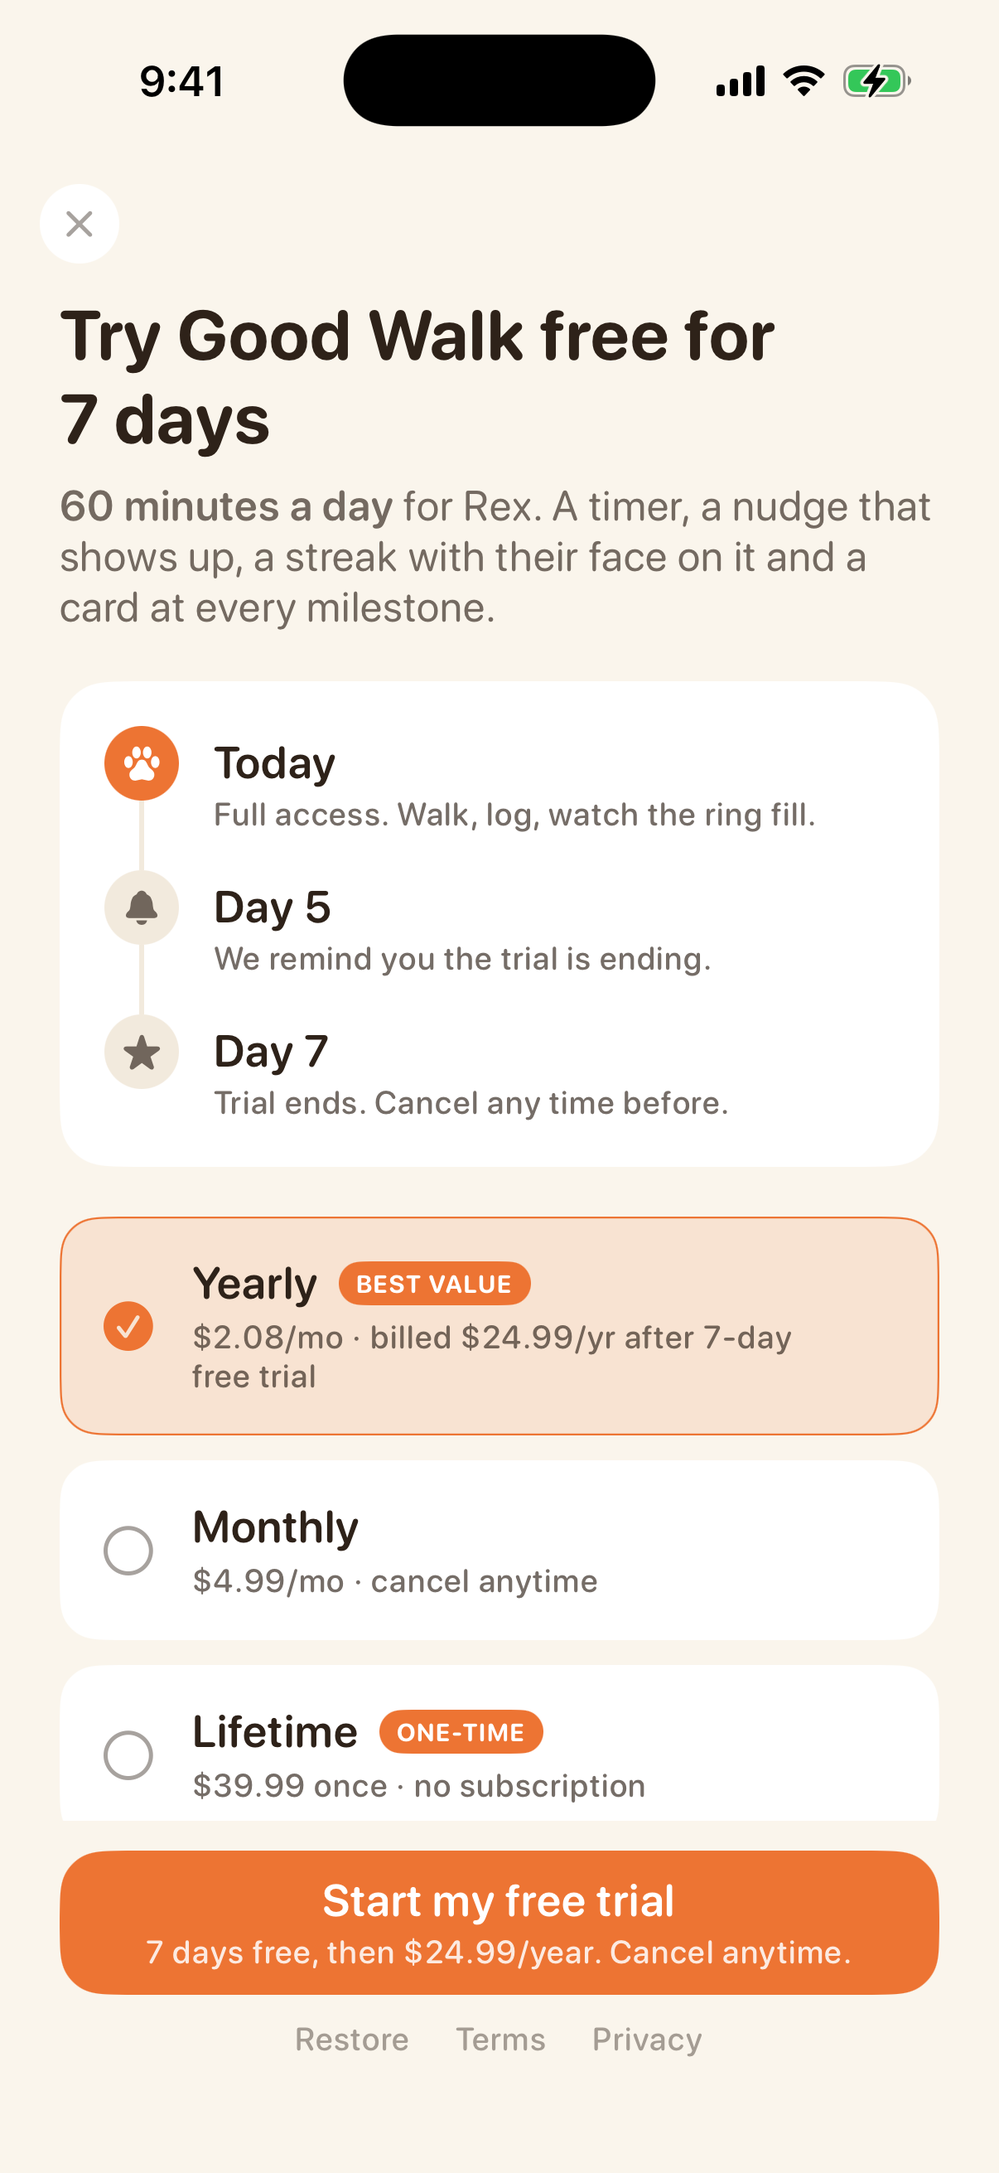
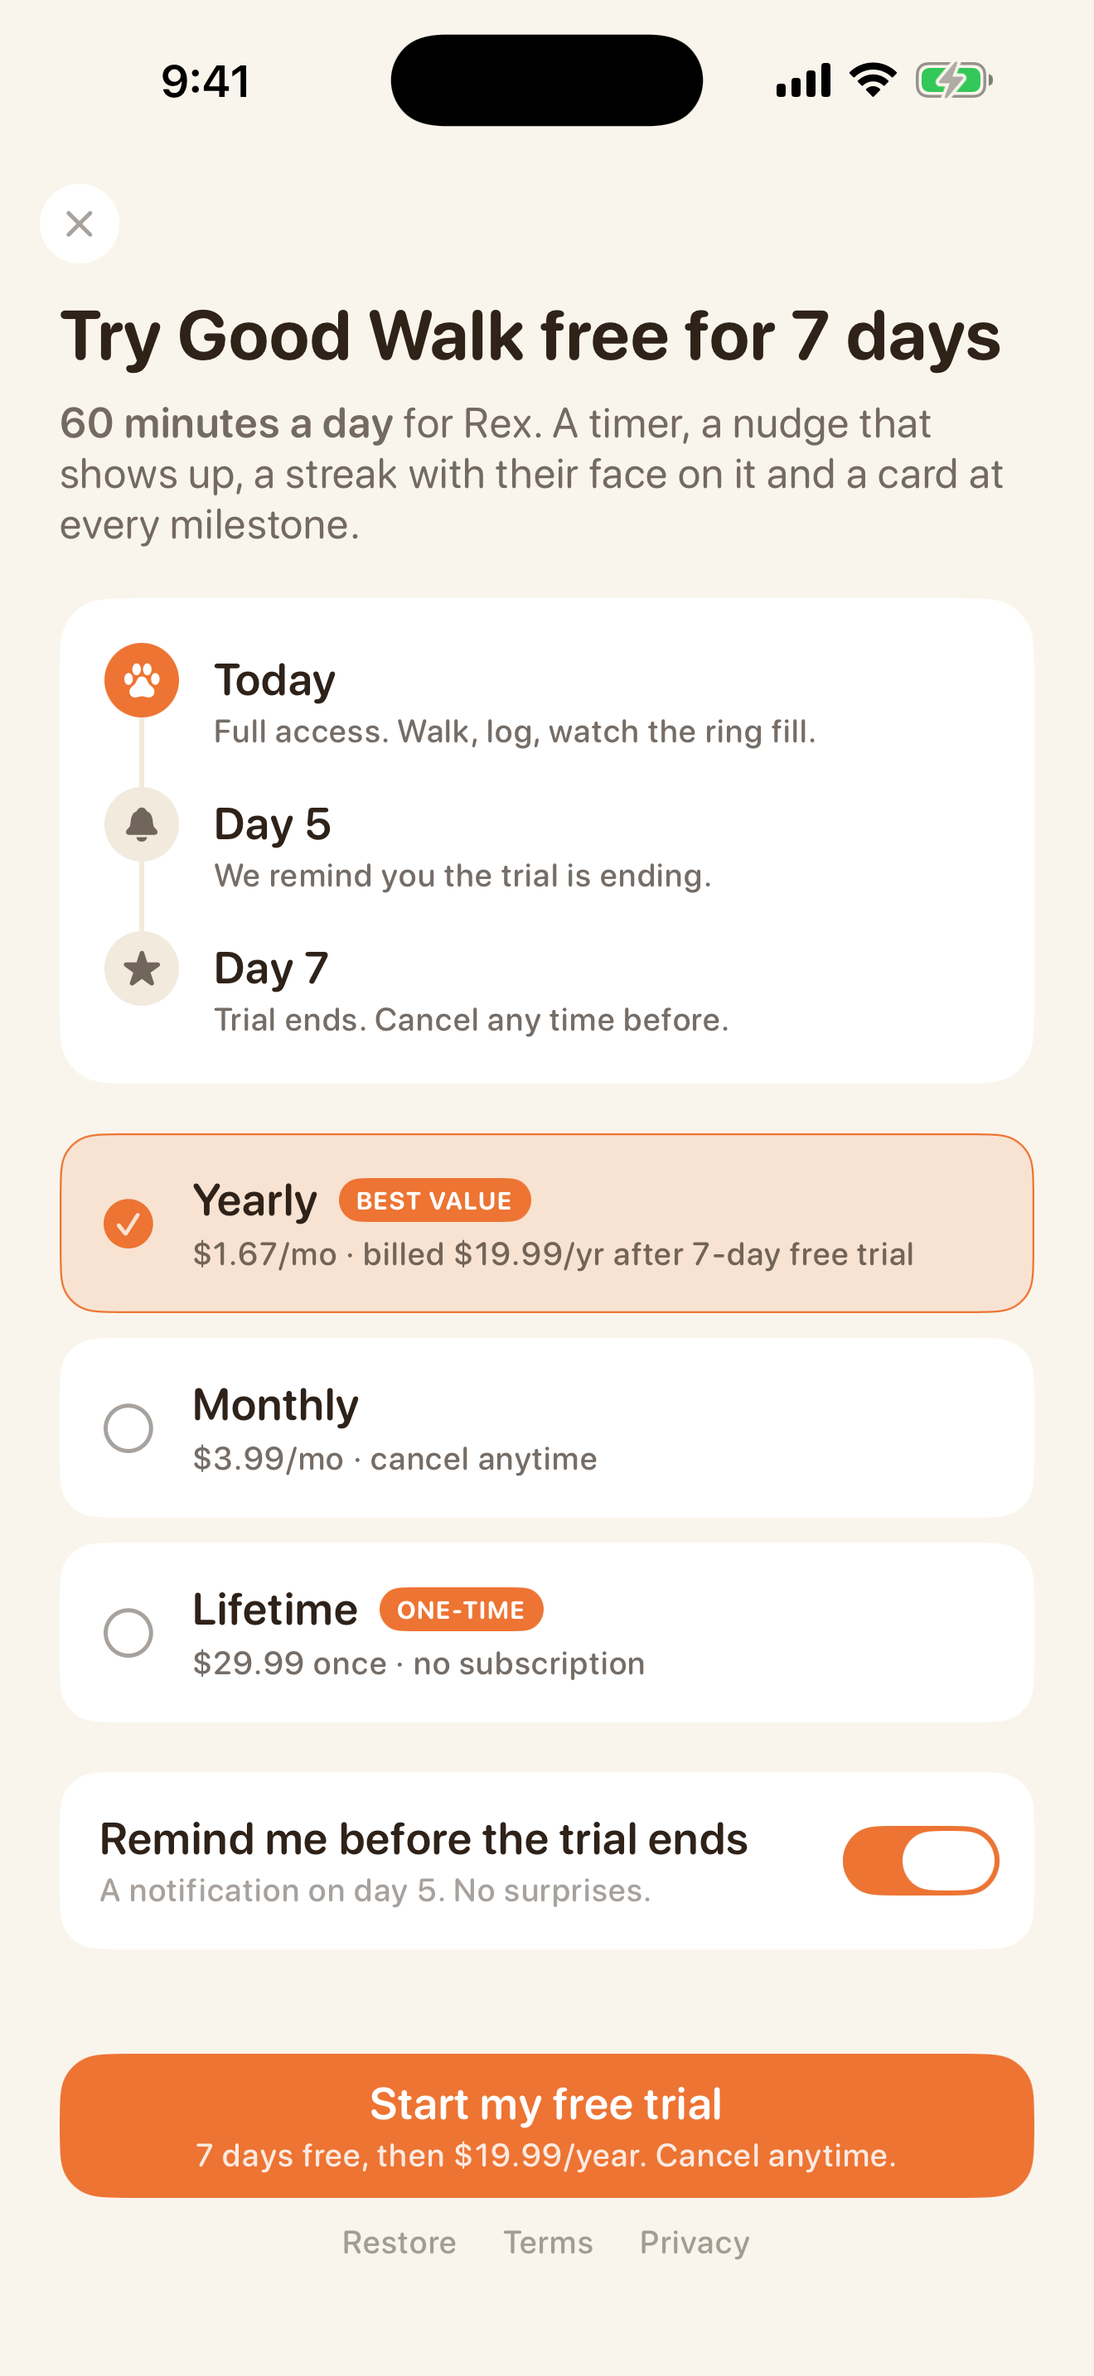
Pricing: $19.99/yr, $3.99/mo, $29.99 lifetime; replace the Compare card
Nick's call on 20 Sep. StoreKit config, paywall sample copy, site (cards, FAQ,
JSON-LD), listing and playbook all match. Unit economics re-derived. The site's
collar comparison card is now a plain 'every plan is the whole app' card.

diff --git a/docs/index.html b/docs/index.html
@@ -177,7 +177,7 @@
      "@type": "Offer",
      "name": "Good Walk Yearly",
      "description": "Full access, billed yearly. Starts with a 7-day free trial.",
-     "price": "24.99",
+     "price": "19.99",
      "priceCurrency": "USD",
      "category": "subscription"
     },
@@ -185,7 +185,7 @@
      "@type": "Offer",
      "name": "Good Walk Monthly",
      "description": "Full access, billed monthly.",
-     "price": "4.99",
+     "price": "3.99",
      "priceCurrency": "USD",
      "category": "subscription"
     },
@@ -193,7 +193,7 @@
      "@type": "Offer",
      "name": "Good Walk Lifetime",
      "description": "Full access, one-time purchase.",
-     "price": "39.99",
+     "price": "29.99",
      "priceCurrency": "USD"
     }
    ]
@@ -255,7 +255,7 @@
      "name": "How much does Good Walk cost?",
      "acceptedAnswer": {
       "@type": "Answer",
-      "text": "It's free to try for 7 days on the yearly plan. After that it's $24.99 a year, $4.99 a month, or $39.99 once for lifetime access. Subscriptions are billed by Apple and you can cancel any time in your App Store settings."
+      "text": "It's free to try for 7 days on the yearly plan. After that it's $19.99 a year, $3.99 a month, or $29.99 once for lifetime access. Subscriptions are billed by Apple and you can cancel any time in your App Store settings."
      }
     },
     {
@@ -373,10 +373,10 @@
     <h2>Pricing</h2>
     <p class="sub">Try it free for 7 days. Cancel any time.</p>
     <div class="grid2">
-      <div class="card"><h3 class="price"><b>$24.99</b><span>/ year</span></h3><p>About $2.08 a month. 7-day free trial. Best value.</p></div>
-      <div class="card"><h3 class="price"><b>$4.99</b><span>/ month</span></h3><p>For trying it out one month at a time.</p></div>
-      <div class="card"><h3 class="price"><b>$39.99</b><span>once</span></h3><p>Lifetime. For people who hate subscriptions.</p></div>
-      <div class="card"><h3>Compare</h3><p>A GPS collar subscription runs $100 or more a year, plus the collar. If you just want the walk to happen, this is the part you need.</p></div>
+      <div class="card"><h3 class="price"><b>$19.99</b><span>/ year</span></h3><p>About $1.67 a month. 7-day free trial. Best value.</p></div>
+      <div class="card"><h3 class="price"><b>$3.99</b><span>/ month</span></h3><p>For trying it out one month at a time.</p></div>
+      <div class="card"><h3 class="price"><b>$29.99</b><span>once</span></h3><p>Lifetime. For people who hate subscriptions.</p></div>
+      <div class="card"><h3>Every plan is the whole app</h3><p>Your dog's daily target, the one-tap reminder, streaks, photo cards and the widget. No ads, no account, nothing leaves your phone.</p></div>
     </div>
     <p class="note">Prices in US dollars; the App Store shows your local price. Subscriptions renew automatically until cancelled. See the <a href="/terms.html">terms of use</a>.</p>
   </section>
@@ -405,14 +405,14 @@
     <details><summary><h3>What counts towards the dog walking streak, and what if I miss a day?</h3></summary><p>Any day with at least one logged walk keeps the streak. Days where you hit the full target are counted separately as goal days. Today doesn't break the streak until it's over. Miss a day and the streak starts again at the next walk; your miles, hours, walks and history don't go anywhere.</p></details>
     <details><summary><h3>Do I need a GPS collar or a tracker?</h3></summary><p>No. Just your iPhone. Tap "Walked" from the reminder, quick-log some minutes, or run the walk timer with your phone in your pocket.</p></details>
     <details><summary><h3>Where does my dog&#x27;s photo go?</h3></summary><p>Nowhere. It's saved on your phone and shown in the app, the widget and the cards you choose to share. There's no account and no server.</p></details>
-    <details><summary><h3>How much does Good Walk cost?</h3></summary><p>It's free to try for 7 days on the yearly plan. After that it's $24.99 a year, $4.99 a month, or $39.99 once for lifetime access. Subscriptions are billed by Apple and you can cancel any time in your App Store settings.</p></details>
+    <details><summary><h3>How much does Good Walk cost?</h3></summary><p>It's free to try for 7 days on the yearly plan. After that it's $19.99 a year, $3.99 a month, or $29.99 once for lifetime access. Subscriptions are billed by Apple and you can cancel any time in your App Store settings.</p></details>
     <details><summary><h3>Does it work with more than one dog, or on Android?</h3></summary><p>One dog, on iPhone, for now. If you need more dogs or an Android version, tell us at <a href="mailto:hello@getgoodwalk.app">hello@getgoodwalk.app</a>; requests move things up the list.</p></details>
     <p class="help">Walk safely. You know your dog, the weather and the road better than an app does; you're responsible for your dog and yourself on every walk.</p>
   </section>
 
   <section id="download" class="final">
     <h2>Start your dog's streak</h2>
-    <p class="sub">Good Walk for iPhone. Free for 7 days, then $24.99 a year.</p>
+    <p class="sub">Good Walk for iPhone. Free for 7 days, then $19.99 a year.</p>
     <div class="cta-row">
       <a class="btn" data-store-btn href="mailto:hello@getgoodwalk.app?subject=Good%20Walk%20early%20access&amp;body=Send%20me%20the%20TestFlight%20link.">
         <svg viewBox="0 0 24 24" fill="currentColor" aria-hidden="true"><path d="M16.4 12.6c0-2.5 2-3.7 2.1-3.8-1.2-1.7-3-1.9-3.6-2-1.5-.2-3 .9-3.8.9-.8 0-2-.9-3.3-.9-1.7 0-3.3 1-4.1 2.5-1.8 3.1-.5 7.6 1.3 10.1.9 1.2 1.9 2.6 3.2 2.6 1.3-.1 1.8-.8 3.3-.8 1.6 0 2 .8 3.3.8 1.4 0 2.3-1.3 3.1-2.5 1-1.4 1.4-2.8 1.4-2.9 0 0-2.7-1-2.9-4zM14 5.2c.7-.8 1.2-2 1-3.2-1 0-2.2.7-2.9 1.5-.6.7-1.2 1.9-1.1 3.1 1.1.1 2.3-.6 3-1.4z"/></svg>

diff --git a/GoodWalk/Views/Paywall/PaywallView.swift b/GoodWalk/Views/Paywall/PaywallView.swift
@@ -147,9 +147,9 @@ struct PaywallView: View {
 
     private func sampleDetail(_ id: StoreManager.ProductID) -> String {
         switch id {
-        case .yearly: return "$2.08/mo · billed $24.99/yr after 7-day free trial"
-        case .monthly: return "$4.99/mo · cancel anytime"
-        case .lifetime: return "$39.99 once · no subscription"
+        case .yearly: return "$1.67/mo · billed $19.99/yr after 7-day free trial"
+        case .monthly: return "$3.99/mo · cancel anytime"
+        case .lifetime: return "$29.99 once · no subscription"
         }
     }
 
@@ -195,9 +195,9 @@ struct PaywallView: View {
     private var ctaSubtitle: String? {
         if ScreenshotMode.isActive {
             switch selectedID {
-            case .yearly: return "7 days free, then $24.99/year. Cancel anytime."
-            case .monthly: return "$4.99/month. Cancel anytime."
-            case .lifetime: return "$39.99 once. Yours forever."
+            case .yearly: return "7 days free, then $19.99/year. Cancel anytime."
+            case .monthly: return "$3.99/month. Cancel anytime."
+            case .lifetime: return "$29.99 once. Yours forever."
             }
         }
         guard let product = selectedProduct else { return nil }

diff --git a/docs/dog-walking-log.html b/docs/dog-walking-log.html
@@ -214,7 +214,7 @@
 
     <h2>How Good Walk keeps the log for you</h2>
     <p>At the time you pick, your iPhone asks "Has Rex had a walk today?". Tapping Walked on the notification logs your usual walk length without opening the app. Or start the walk timer: it records minutes and measures distance from the phone's step sensor. Walks you quick-log get a distance estimated at 2 mph, labelled as an estimate. Every walk goes into a log you can scroll back through, and the totals, the streak and the milestone cards (at 1, 3, 7, 14, 30, 60, 100 and 365 days) are worked out from it.</p>
-    <p>There is no account and nothing is uploaded; the log lives on your phone. Good Walk is free for 7 days, then $24.99 a year, $4.99 a month or $39.99 once.</p>
+    <p>There is no account and nothing is uploaded; the log lives on your phone. Good Walk is free for 7 days, then $19.99 a year, $3.99 a month or $29.99 once.</p>
     <p>Not sure what target to log against? See <a href="/how-much-exercise-does-my-dog-need.html">how much exercise does my dog need?</a> and <a href="/how-long-should-i-walk-my-dog.html">how long should I walk my dog?</a>. Both are general guidance, not veterinary advice.</p>
 
     <div class="card cta">

diff --git a/playbook/01-strategy.md b/playbook/01-strategy.md
@@ -52,7 +52,7 @@ Prices checked 18 Sep 2026 (`playbook/12-sources.md`). They move; check again on
 
 | Competitor | What they do well | What users hate | Good Walk's answer |
 |---|---|---|---|
-| Tractive ($79 + $108/yr) | GPS, escape alerts, activity minutes | Hardware plus subscription, battery; Dog Walk app shut down 1 Jan 2025 | No hardware. A quarter of the yearly price. A home for the people who only wanted to log walks. |
+| Tractive ($79 + $108/yr) | GPS, escape alerts, activity minutes | Hardware plus subscription, battery; Dog Walk app shut down 1 Jan 2025 | No hardware. Under a fifth of the yearly price. A home for the people who only wanted to log walks. |
 | Fi ($189/yr) | Nice collar, step goals, breed rankings | Price, collar required, US-centric | The phone already in your pocket counts the distance. |
 | Walky (free) | Map, streak, free, no account | Map-first, generic, no personal target, no notification loop | Same honesty, plus the dog's own number, the tap-to-log reminder and the card. |
 | TreatWalk, Amiko, Dog Walk Tracking & Playdates, onedog (free / small) | Simple, some social | Accounts, social features nobody asked for, small, no distribution | No account. We out-distribute on short-form; same simplicity. |
@@ -134,11 +134,11 @@ first walk and seen the first card with their dog on it).
 
 | Plan | Price | Notes |
 |---|---|---|
-| Yearly | **$24.99** with 7-day free trial | Default. "$2.08/mo" framing. Under a quarter of the cheapest collar subscription ($108). |
-| Monthly | $4.99 | Anchor to make yearly obvious. |
-| Lifetime | $39.99 | For the subscription-haters (a loud group in collar reviews). |
+| Yearly | **$19.99** with 7-day free trial | Default. "$1.67/mo" framing. Under a fifth of the cheapest collar subscription ($108). Set by Nick on 20 Sep 2026 (was $24.99 / $4.99 / $39.99). |
+| Monthly | $3.99 | Anchor to make yearly obvious. |
+| Lifetime | $29.99 | For the subscription-haters (a loud group in collar reviews). |
 
-Why these numbers: the paid reference points are collar subscriptions at $108–189/yr, so $24.99
+Why these numbers: the paid reference points are collar subscriptions at $108–189/yr, so $19.99
 reads as "the honest one" and still supports a business. The free trackers set the floor; the
 personal target, the loop and the card are what the money is for.
 
@@ -150,11 +150,11 @@ personal target, the loop and the card are what the money is for.
 | Onboarding complete → trial start | 25% |
 | Trial → paid | 40% |
 | Blended install → paid | ~6.5% |
-| Yearly ARPU after Apple's cut (small-business 15%) | ~$21 |
-| Break-even CPI at 6.5% install→paid | ~$1.35 |
+| Yearly ARPU after Apple's cut (small-business 15%) | ~$17 |
+| Break-even CPI at 6.5% install→paid | ~$1.10 |
 
 At 10,000 installs/mo from organic short-form plus a January spike, that is ~650 paying
-users/mo, ~$13.5k/mo run-rate by month 3, before January.
+users/mo, ~$11k/mo run-rate by month 3, before January.
 
 ## 8. Distribution plan (starts before the app is approved)
 

diff --git a/playbook/12-sources.md b/playbook/12-sources.md
@@ -86,7 +86,7 @@ Supporting context, not used in copy (so nobody is surprised in the comments):
 | Tractive "~$49 device + ~$96/yr" | `playbook/01-strategy.md:15,55`, §7 | https://tractive.com/en/pd/gps-tracker-dog (opened): tracker "$79"; Basic "$9 / month", "$108 billed annually"; Premium "$120 billed annually"; 2-year Basic "$144" | **Corrected to $79 + $108/yr** |
 | Fi "~$129/yr" | `playbook/01-strategy.md:15,56`, §7 | Fi's own pages (fitracking.com, shop.fitracking.com) opened but show no prices without JavaScript. Third-party: https://lifewithkleekai.com/how-much-does-fi-series-3-dog-collar-cost/ (opened, updated 13 Sep 2026): 6 months "$99", 12 months "$189", 24 months "$339", "$20 activation fee" | **Corrected to $189/yr. FLAG:** second-hand; confirm on Fi's store before quoting |
 | "A GPS collar is $100 a year" | `playbook/03-distribution.md:44`, `playbook/07-launch-videos.md:67`, `playbook/11-social-kit.md:86` | Cheapest yearly plan found: Tractive Basic $108 | **Softened to "$100+ a year"** |
-| "$24.99 … about a quarter of a collar subscription" | `playbook/01-strategy.md` §4, §7 | 24.99 ÷ 108 = 23% | Kept, reworded to "under a quarter of the cheapest" |
+| "$19.99 … under a fifth of a collar subscription" | `playbook/01-strategy.md` §4, §7 | 19.99 ÷ 108 = 19% | Kept, reworded to "under a fifth of the cheapest" after the 20 Sep price change |
 | Tractive "discontinued its separate Dog Walk app on 1 Jan 2025 and left those users without a home" | `playbook/01-strategy.md:16,55`, `playbook/03-distribution.md:54` | Tractive Help Center, "Tractive Dog Walk App", https://help.tractive.com/hc/en-us/articles/115005779525 — page returned 403; the search snippet reads: as of January 1st, 2025 the app "has been deprecated and is no longer supported", Walk tracking "is now part of" the Tractive GPS app | Date kept. **Softened**: walk tracking moved into the GPS app, it didn't vanish. **FLAG:** snippet only; open the page in a browser before video #18 |
 | Walky: free, streaks | `playbook/01-strategy.md:57`, `playbook/05-naming.md:33` | App Store listing https://apps.apple.com/us/app/walky-dog-walk-tracker/id6759896890 (opened): Free; "No account. No ads. No subscription."; "Every day you walk, your streak grows. Miss a day, it resets." | Kept + cited; added "no account" to their strengths, since our "no account" is not a difference against Walky |
 | TreatWalk, Amiko, Dog Walk Tracking & Playdates, onedog: "free / small", "accounts, social features" | `playbook/01-strategy.md:58` | TreatWalk and Amiko listings exist on the App Store (seen in search results); none of the four listings was opened | **FLAG, unresolved.** Internal positioning only; do not repeat in public copy |

diff --git a/playbook/02-onboarding-and-paywall.md b/playbook/02-onboarding-and-paywall.md
@@ -33,8 +33,8 @@ in `playbook/01-strategy.md` section 6 and live in `GoodWalk/Models/WalkPlan.swi
   Timeline graphic: Today (full access) → Day 5 (reminder) → Day 7 (charged). The reminder toggle
   is on by default and actually schedules a local notification. Surprise charges are the most
   common one-star review on any subscription app; the toggle is the answer to that fear.
-- **Yearly preselected**, shown as "$2.08/mo, billed $24.99/yr". Monthly at $4.99 exists to make
-  yearly obvious. Lifetime at $39.99 catches subscription-haters.
+- **Yearly preselected**, shown as "$1.67/mo, billed $19.99/yr". Monthly at $3.99 exists to make
+  yearly obvious. Lifetime at $29.99 catches subscription-haters.
 - **Personal line above the plans:** "Rex's plan: 60 min a day. Reminder at 5:30 PM." with the
   photo. The thing being bought is already built and has their dog's name on it.
 - **Close button** appears after 2 seconds, top-left, low contrast. Apple requires dismissal;
@@ -54,6 +54,6 @@ in `playbook/01-strategy.md` section 6 and live in `GoodWalk/Models/WalkPlan.swi
 2. Reveal order (the dog's target first vs. "hours a year missing" first).
 3. First-walk screen: default to logging vs. asking.
 4. Paywall: trial reminder toggle on vs. off by default.
-5. Price: $24.99 vs. $29.99 yearly.
+5. Price: $19.99 vs. $24.99 yearly.
 
 Everything else waits until these five have a read.

diff --git a/playbook/11-social-kit.md b/playbook/11-social-kit.md
@@ -36,7 +36,7 @@ deserves a good walk.").
 - TikTok (80 chars): `Every dog deserves a good walk. One tap a day. iPhone app, out this October.`
 - Instagram (150 chars): `Every dog deserves a good walk.\nA daily walk target for your dog, a streak with their face on it.\nNo collar, no map, no account ↓`
 - X (160 chars): `Your dog needs a walk every day. Good Walk makes it a streak. One-tap dog walk tracker for iPhone. No collar, no map, no account. Building in public.`
-- YouTube (1000 chars, use the short one): `Good Walk gives your dog a daily walk target and turns it into a streak. One tap from the reminder, your dog's photo in the ring, a card at every milestone, nothing leaves your phone. Walk targets are general guidelines, not veterinary advice. Free 7-day trial, then $24.99/yr. getgoodwalk.app`
+- YouTube (1000 chars, use the short one): `Good Walk gives your dog a daily walk target and turns it into a streak. One tap from the reminder, your dog's photo in the ring, a card at every milestone, nothing leaves your phone. Walk targets are general guidelines, not veterinary advice. Free 7-day trial, then $19.99/yr. getgoodwalk.app`
 - Threads: same as Instagram.
 - Reddit: `Building Good Walk, a one-tap dog walk streak app for iPhone. No collar, no GPS, no account.`
 

diff --git a/playbook/09-app-store-connect.md b/playbook/09-app-store-connect.md
@@ -46,9 +46,9 @@ HealthKit or anything location-related; the app uses neither.
 
 | Reference name | Product ID | Type | Price (US) | Intro offer |
 |---|---|---|---|---|
-| Yearly | `goodwalk.yearly` | Auto-renewable, 1 year | $24.99 | Free trial, 7 days, all territories, new subscribers |
-| Monthly | `goodwalk.monthly` | Auto-renewable, 1 month | $4.99 | none |
-| Lifetime | `goodwalk.lifetime` | Non-consumable | $39.99 | n/a |
+| Yearly | `goodwalk.yearly` | Auto-renewable, 1 year | $19.99 | Free trial, 7 days, all territories, new subscribers |
+| Monthly | `goodwalk.monthly` | Auto-renewable, 1 month | $3.99 | none |
+| Lifetime | `goodwalk.lifetime` | Non-consumable | $29.99 | n/a |
 
 Product IDs must match `GoodWalk/Services/StoreManager.swift` and
 `GoodWalk/Resources/Products.storekit` exactly.

diff --git a/playbook/06-app-store-listing.md b/playbook/06-app-store-listing.md
@@ -62,7 +62,7 @@ your vet what's right for your dog, especially for puppies, seniors, flat-faced 
 dogs with health conditions.
 
 PRICING
-Good Walk is free to try for 7 days, then $24.99/year, $4.99/month, or $39.99 once for life.
+Good Walk is free to try for 7 days, then $19.99/year, $3.99/month, or $29.99 once for life.
 Subscriptions renew automatically unless cancelled at least 24 hours before the end of the
 current period. Manage or cancel in Settings > Apple ID > Subscriptions.
 

diff --git a/playbook/03-distribution.md b/playbook/03-distribution.md
@@ -88,4 +88,4 @@ videos get views for free; views are not the goal.
 - $20/day per concept on TikTok Spark Ads first (boosting the organic post keeps social proof).
 - Creative policy: no health-outcome claims ("longer life", "weight loss", "calmer dog"), no
   off-leash dogs near roads, no competitor logos in paid creative.
-- Kill anything above $2.10 CPI after $100 spend. Scale anything under $1.35.
+- Kill anything above $1.75 CPI after $100 spend. Scale anything under $1.10.

diff --git a/playbook/07-launch-videos.md b/playbook/07-launch-videos.md
@@ -67,7 +67,7 @@ Rules for all ten:
 **Hook text:** "A GPS collar is $100+ a year."
 **Shots:**
 1. Dog on a walk, normal collar. Text: "I don't need to know where he is. He's right here."
-2. Cut: Good Walk paywall. "$24.99. No collar. One tap a day."
+2. Cut: Good Walk paywall. "$19.99. No collar. One tap a day."
 3. Home screen demo, 3s.
 4. End card.
 **Note:** Keep it factual. Collars solve a real problem (lost dogs); we solve a different one.
